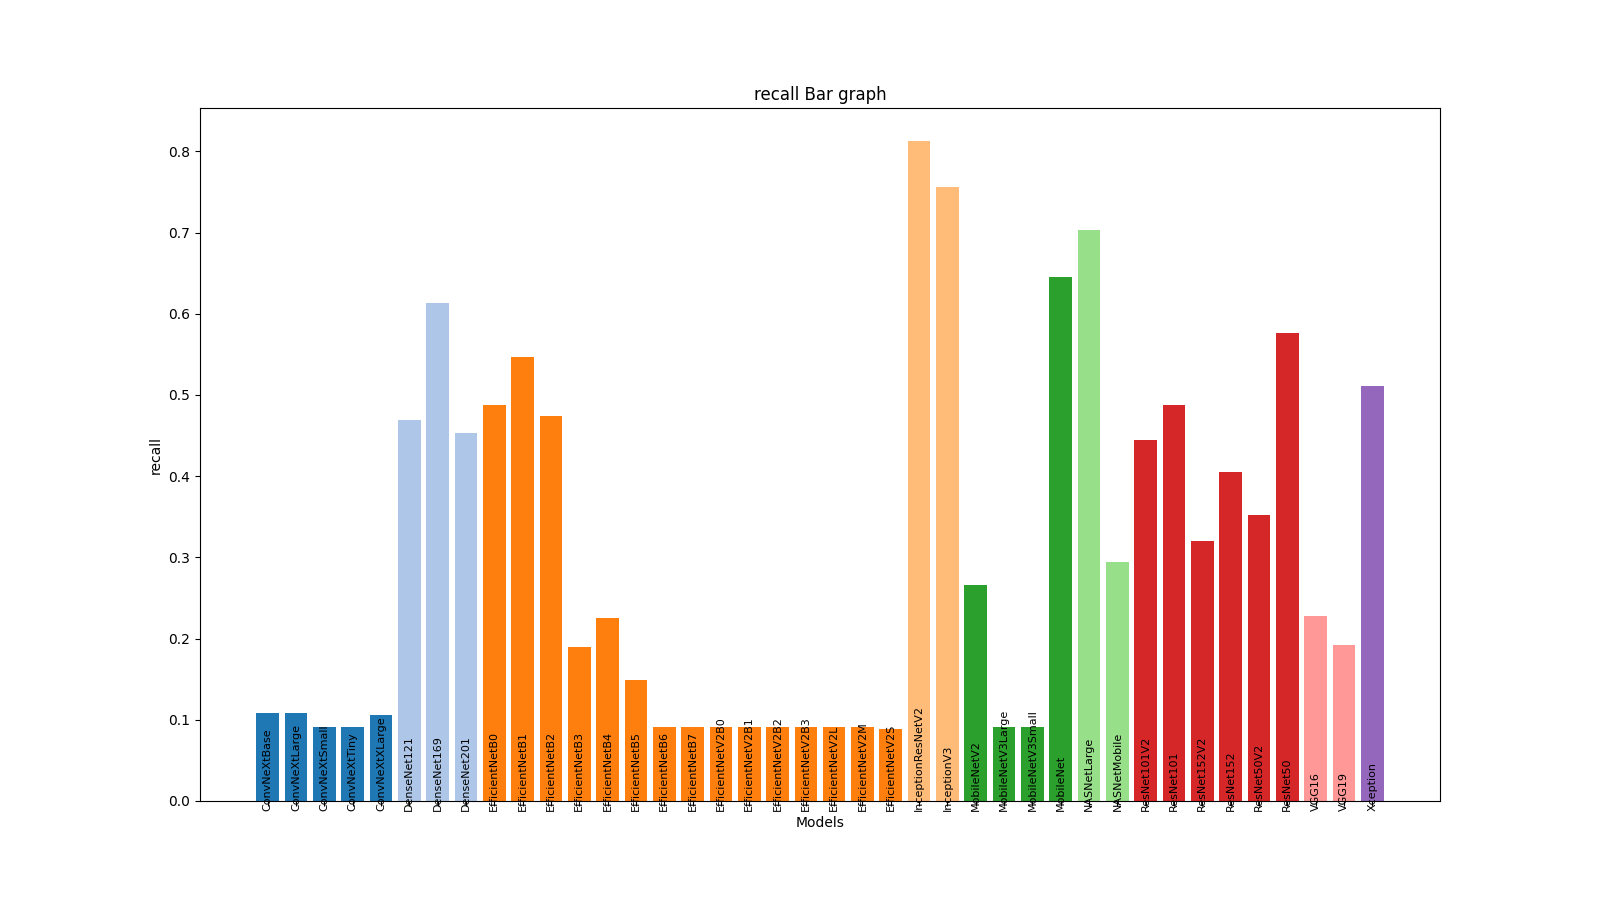
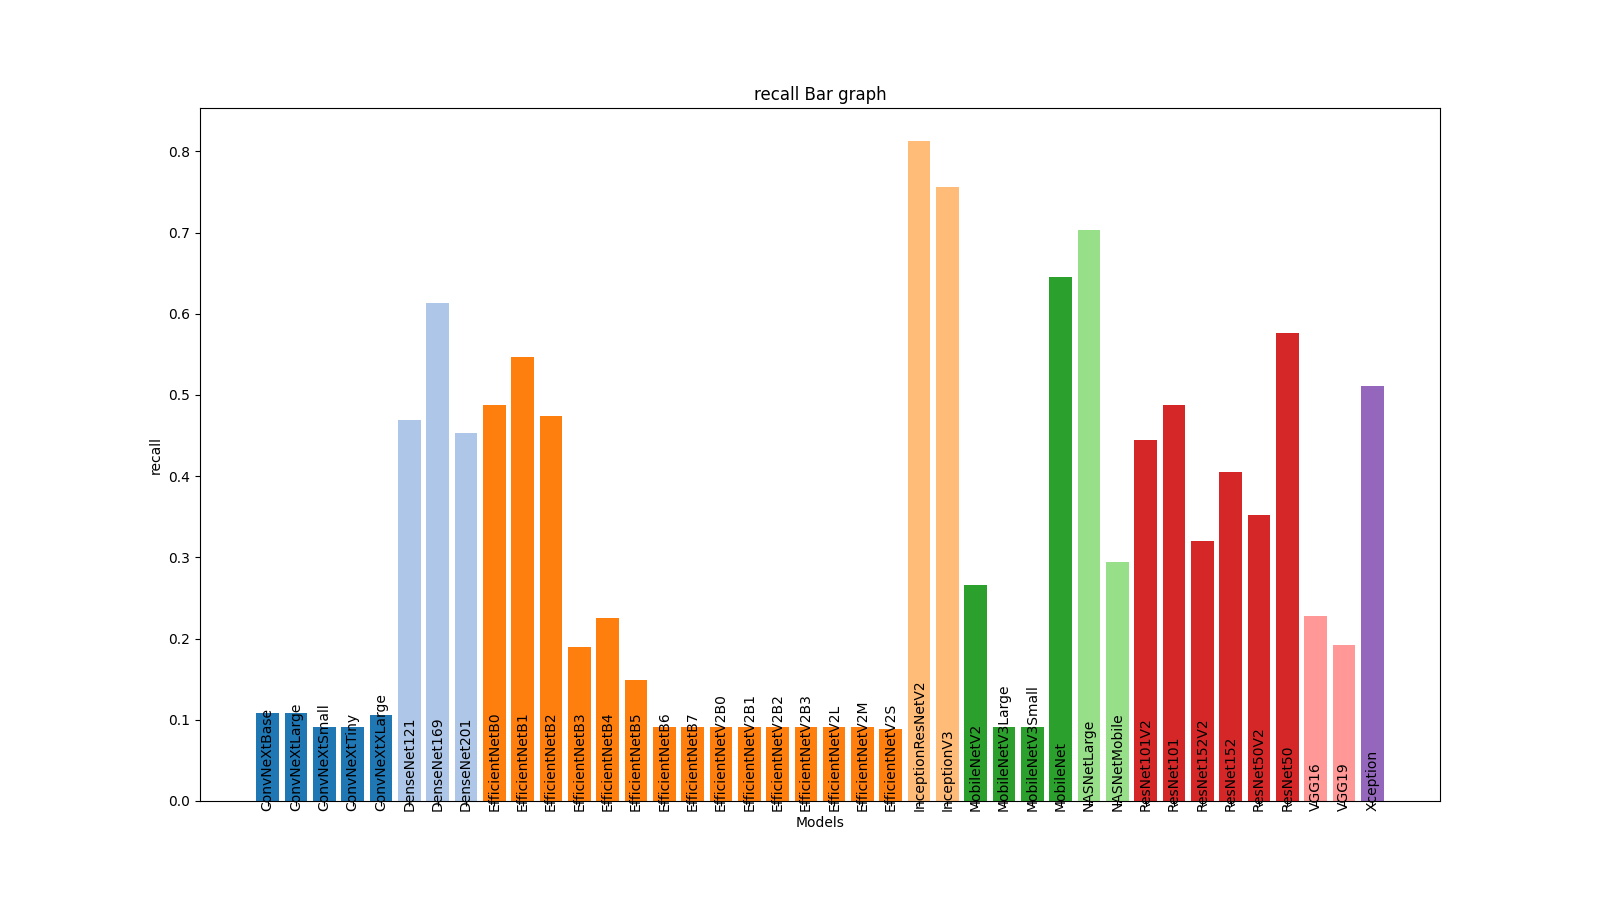
you probabaly thought that was the lastone too

Changed region(s): [[0.1562, 0.7467, 0.875, 0.9022]]

diff --git a/final/utils.py b/final/utils.py
@@ -84,7 +84,7 @@ def create_bar(metrics, col, path):
     plt.figure(figsize=(16, 9))
     plt.bar(cat, val,color=plt.cm.tab20(c))
 
-    plt.xticks(rotation=90, va="bottom", fontsize=8)
+    plt.xticks(rotation=90, va="bottom")
     plt.xlabel('Models')
     plt.ylabel(f"{col}")
     plt.title(f"{col} Bar graph")
